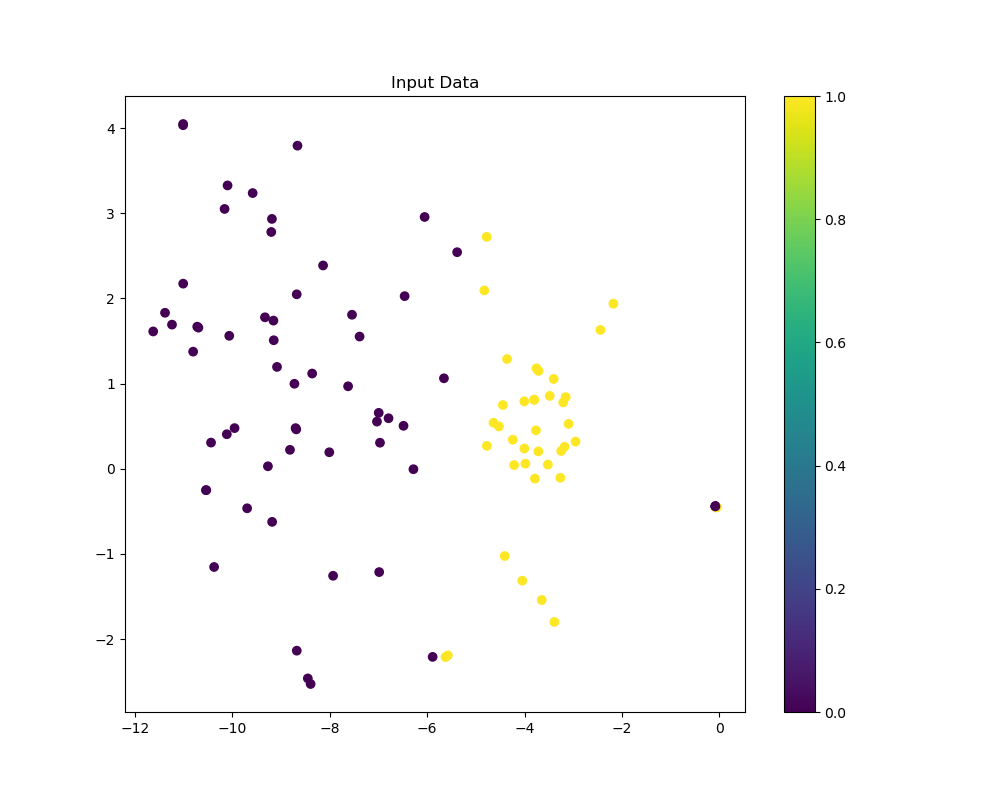
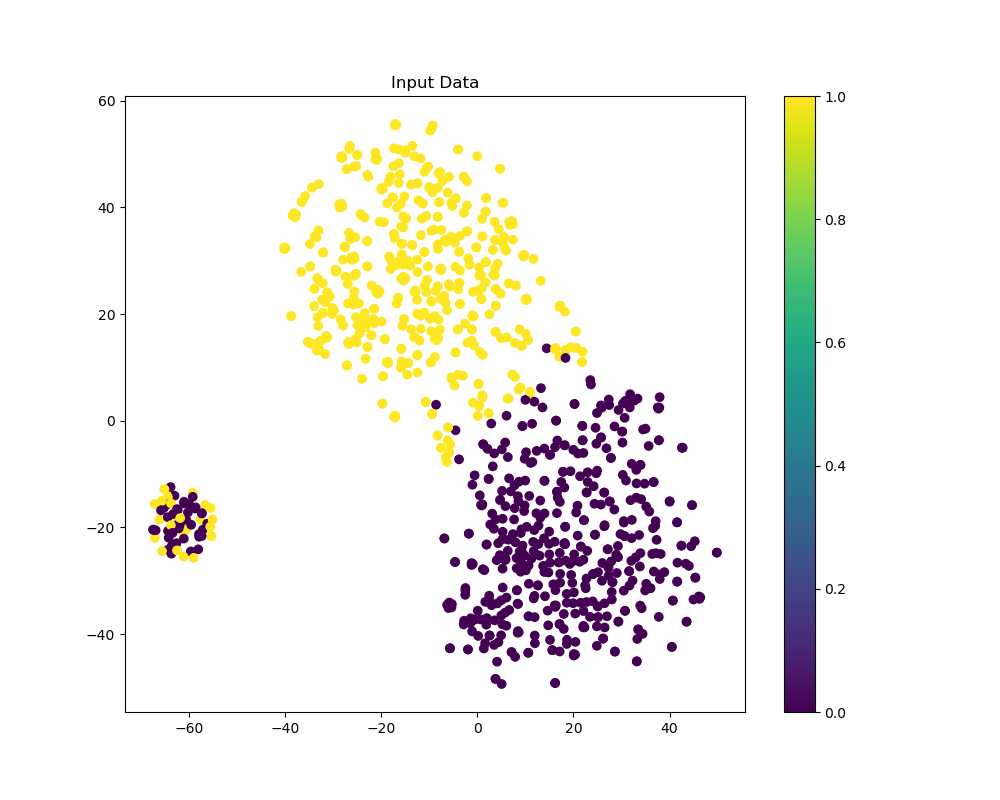
#5 update plot

diff --git a/training/test_mydata.py b/training/test_mydata.py
@@ -36,13 +36,14 @@ class DummyDataset(Dataset):
         true_wind_tensor = torch.tensor(self.true_wind[idx],dtype=torch.float) # this is complete dataset
         labels = self.labels[idx].to(torch.float)
         return true_gauss_tensor,true_wind_tensor,labels
-class LSTM_embedding(nn.Module):
+
+class WindEncoderLSTM(nn.Module):
     def __init__(self):
         super().__init__()
         # Define parameters
-        self.LSTM_block_1 = nn.LSTM(input_size=1, hidden_size=128, num_layers=2,batch_first=True,dropout=0.5)
-        self.LSTM_block_2 = nn.LSTM(input_size=128, hidden_size=256, num_layers=2,batch_first=True,dropout=0.5)
-        self.LSTM_block_3 = nn.LSTM(input_size=256, hidden_size=64, num_layers=2,batch_first=True,dropout=0.5)
+        self.LSTM_block_1 = nn.LSTM(input_size=1, hidden_size=128, num_layers=2,batch_first=True,dropout=0.2)
+        self.LSTM_block_2 = nn.LSTM(input_size=128, hidden_size=256, num_layers=2,batch_first=True,dropout=0.2)
+        self.LSTM_block_3 = nn.LSTM(input_size=256, hidden_size=64, num_layers=2,batch_first=True,dropout=0.2)
         self.bn_block_1 = nn.BatchNorm1d(128)
         self.bn_block_2 = nn.BatchNorm1d(256)
         self.bn_block_3 = nn.BatchNorm1d(64)
@@ -59,13 +60,11 @@ class LSTM_embedding(nn.Module):
         output = self.bn_block_2(output)
         output = output.permute(0, 2, 1)
 
-        output,_ = self.LSTM_block_3(output)
-        output = output.permute(0, 2, 1)
+        output = self.LSTM_block_3(output)[0][:,-1,:]
         output = self.bn_block_3(output)
-        output = output.permute(0, 2, 1)
-        
+
         return output
-    
+
 
 class CombinedEncoderLSTM(nn.Module):
     def __init__(self):
@@ -115,7 +114,7 @@ test_true_gauss = np.load(datadir + 'test_gauss_a_set.npy')
 test_true_wind = np.load(datadir + 'test_wind_a_set.npy')
 test_label = np.load(datadir + 'test_labels.npy')
 
-test_data_len = 500000
+test_data_len = 50000
 #識別学習に用いるone-hot表現のラベルを作成
 one_hot_testlabels = torch.zeros(test_data_len, 2, dtype=torch.float)
 for step, genuine_label in enumerate(test_label[:test_data_len][:,0]):
@@ -131,9 +130,10 @@ testdataset = DummyDataset(test_scaled_gauss[0:test_data_len] ,test_scaled_wind[
 batch_size = 1000
 test_dataloader = DataLoader(testdataset, batch_size = batch_size, shuffle=True)
 
-device = torch.device("cuda" if torch.cuda.is_available() else "cpu")
+device = torch.device("cuda:0" if torch.cuda.is_available() else "cpu")
 model = CombinedEncoderLSTM()
-model_path = 'data/checkpoints/model_5.pt'
+model.to(device)
+model_path = 'data/checkpoints/model_1.pt'
 checkpoint = torch.load(model_path)
 model.load_state_dict(checkpoint)
 model.eval()

diff --git a/training/train_LSTM-CNN.py b/training/train_LSTM-CNN.py
@@ -1,6 +1,7 @@
 import sys
 import os
 import re
+from sklearn.manifold import TSNE
 import numpy as np
 from preprocess_data import preprocess_for_Siamese_Net
 import torch; torch.utils.backcompat.broadcast_warning.enabled = True
@@ -378,6 +379,39 @@ class MLP(nn.Module):
         x = self.bn_block_3(x)
         x = self.fc4(x)
         return x
+
+# 入力データをt-SNEで可視化
+def visualize_tsne(data, labels, title, output_file=None):
+    tsne = TSNE(n_components=2, random_state=42)
+    tsne_data = tsne.fit_transform(data)
+
+    plt.figure(figsize=(10, 8))
+    plt.scatter(tsne_data[:, 0], tsne_data[:, 1], c=labels, cmap='viridis')
+    plt.title(title)
+    plt.colorbar()
+    if output_file:
+        os.makedirs(os.path.dirname(output_file), exist_ok=True)
+        plt.savefig(output_file)
+        plt.close()
+    else:
+        plt.show()
+
+# モデルの推論結果と入力データを可視化
+def visualize_embedding(true_gauss_tensor, true_wind_tensor, genuine_output, labels, output_file1, output_file2):
+    # 入力データをnumpy配列に変換
+    gauss_data = true_gauss_tensor.detach().cpu().numpy()
+    wind_data = true_wind_tensor.detach().cpu().numpy()
+
+    # 入力データとgenuine_outputを結合
+    input_data = np.concatenate((gauss_data, wind_data), axis=1)
+    genuine_output_data = genuine_output.detach().cpu().numpy()
+
+    # 入力データのt-SNE可視化
+    visualize_tsne(input_data, labels, 'Input Data', output_file1)
+
+    # genuine_outputのt-SNE可視化
+    visualize_tsne(genuine_output_data, labels, 'genuine_output' , output_file2)
+
 """
 climo_walk_files = sorted([f for f in os.listdir('data/csv/climomaster') if 'walk' in f])
 gauss_walk_files = sorted([f for f in os.listdir('data/csv/ML-logger') if 'walk' in f])
@@ -495,6 +529,12 @@ for epoch in range(1, epochs+1):
 
         cont_optimizer.zero_grad() 
         train_genuine_output = model(train_gauss_tensor.to(device), train_wind_tensor.to(device))
+        _, y_targets = train_labels.clone().max(dim=1)
+        output_path1 = "plot/data-tSNE.png"
+        output_path2 = "plot/vector-tSNE.png"
+        if epoch==5:
+            visualize_embedding(train_gauss_tensor, train_wind_tensor, train_genuine_output, y_targets, output_path1 ,output_path2)
+            sys.exit()
         #calculate contrastive loss
         train_cont_loss = lossfn(train_genuine_output, train_labels.to(device),device)
         train_cont_losses.append(train_cont_loss.cpu().detach().numpy())        

diff --git a/training/train_LSTM.py b/training/train_LSTM.py
@@ -372,8 +372,8 @@ print(f'{n_max_gpus} GPUs available')
 n_gpus = min(2, n_max_gpus)
 print(f'Using {n_gpus} GPUs')
 
-train_data_len = 30000
-val_data_len = 35000
+train_data_len = 3000000
+val_data_len = 3500000
 
 #識別学習に用いるone-hot表現のラベルを作成
 one_hot_labels = torch.zeros(val_data_len, 2, dtype=torch.float)
@@ -478,7 +478,7 @@ test_true_gauss = np.load(datadir + 'test_gauss_a_set.npy')
 test_true_wind = np.load(datadir + 'test_wind_a_set.npy')
 test_label = np.load(datadir + 'test_labels.npy')
 
-test_data_len = 50000
+test_data_len = 500000
 #識別学習に用いるone-hot表現のラベルを作成
 one_hot_testlabels = torch.zeros(test_data_len, 2, dtype=torch.float)
 for step, genuine_label in enumerate(test_label[:test_data_len][:,0]):
